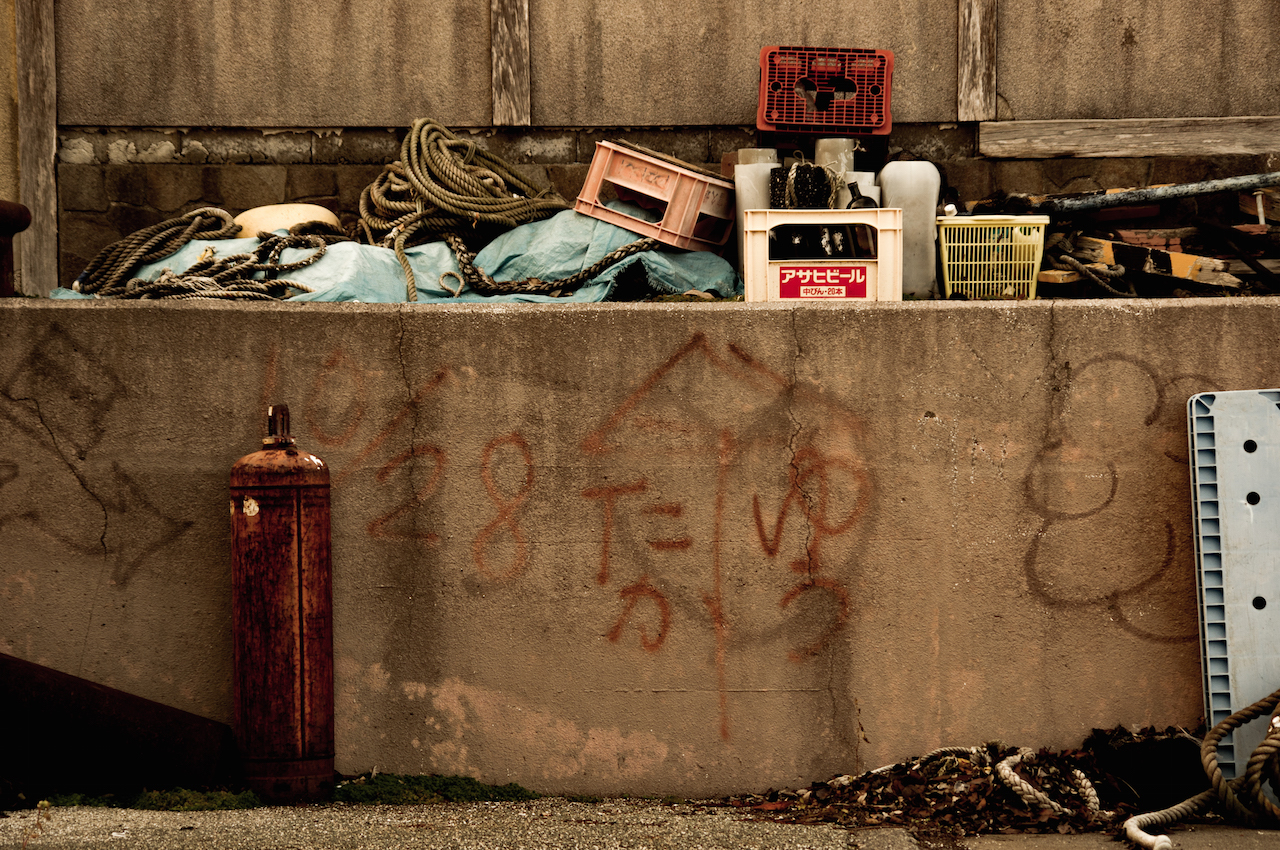
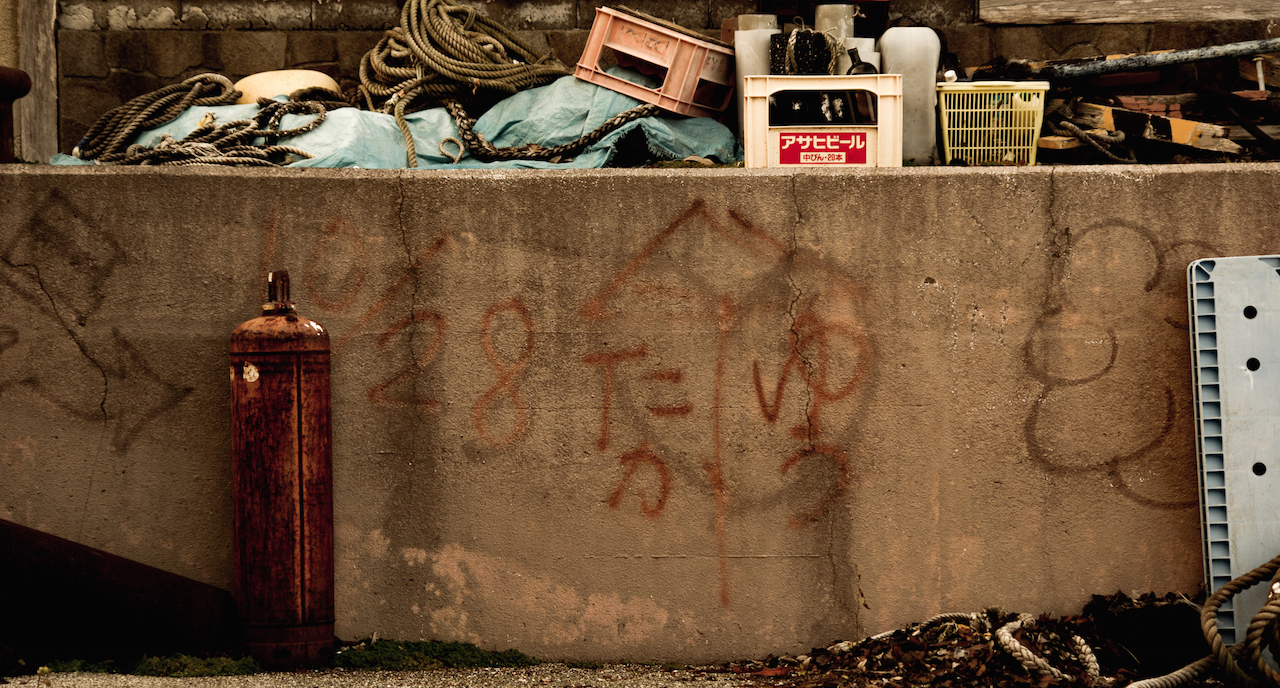
縦横比そのままサムネイル

diff --git a/css/style.css b/css/style.css
@@ -38,27 +38,32 @@
 .icon-shutter:before {
   content: "\e905"; }
 
-img {
-  max-width: 100%; }
-
 [class^="icon-"], [class*=" icon-"] {
-  margin-right: .5em; }
+  margin-right: .4em; }
 
 body .section {
   padding: 0 calc( (100% - 1200px)/2); }
 
 .header .header-nav {
   background-color: #252525;
-  color: #fafafa; }
+  color: #f0f0f0; }
 
-.header .filtering {
-  background-color: #fafafa;
-  color: #252525;
-  box-shadow: 0 1px 1px #dddddd; }
+.main .image.is-3by2 {
+  width: 100%;
+  position: relative;
+  overflow: hidden;
+  background-color: #f0f0f0; }
+  .main .image.is-3by2 img {
+    width: 100%;
+    height: auto !important;
+    position: absolute;
+    top: 50%;
+    left: 50%;
+    transform: translate(-50%, -50%); }
 
 .footer {
   height: 40px;
   text-align: center;
   line-height: 40px;
-  background-color: #fafafa;
+  background-color: #f0f0f0;
   box-shadow: 0 -1px 1px #dddddd; }

diff --git a/index.html b/index.html
@@ -15,10 +15,10 @@
 
 <body>
   <header class="header">
-    <nav class="header-nav section">
+    <nav class="header-nav">
       <h1>Logo</h1>
     </nav>
-    <div class="filtering section">
+    <div class="filtering">
       <h4>Filtering?</h4>
       <div><span class="icon-camera"></span></div>
       <div><span class="icon-f"></span></div>
@@ -28,18 +28,12 @@
       <div><span class="icon-flash"></span></div>
     </div>
   </header>
-  <main class="main section">
-    <my-photo class="photos columns is-multiline is-narrow"></my-photo>
+
+  <main class="section main">
+    <my-photo></my-photo>
   </main>
-  <aside>
-    <section class="section">
-      <h2>About me:</h2>
-      <h3>Kazuma Matsumoto</h3>
-      <p></p>
-    </section>
-    
-  </aside>
-  <footer class="footer section">
+
+  <footer class="footer">
     <span class="footer-copyright">&copy; 2016 mtmtkzm.com</span>
   </footer>
 

diff --git a/scss/style.scss b/scss/style.scss
@@ -1,12 +1,8 @@
 @import 'settings';
 @import 'icon';
 
-img {
-  max-width: 100%;
-}
-
 [class^="icon-"], [class*=" icon-"] {
-  margin-right: .5em;
+  margin-right: .4em;
 }
 
 body {
@@ -20,14 +16,25 @@ body {
   .header-nav {
     background-color: $black;
     color: $lightgray;
-    h1 {
-      // margin-bottom: 0;
-    }
   }
-  .filtering {
-    background-color: $lightgray;
-    color: $black;
-    box-shadow: 0 1px 1px #dddddd;
+}
+
+.main {
+  .image{
+    &.is-3by2 {
+      width: 100%;
+      position: relative;
+      overflow: hidden;
+      background-color: $lightgray;
+      img {
+        width: 100%;
+        height: auto !important;
+        position: absolute;
+        top: 50%;
+        left: 50%;
+        transform: translate(-50%, -50%);
+      }
+    }
   }
 }
 

diff --git a/scss/_settings.scss b/scss/_settings.scss
@@ -1,4 +1,4 @@
 $black: #252525;
 $gray: #959595;
-$lightgray: #fafafa;
+$lightgray: #f0f0f0;
 $white: #ffffff;
